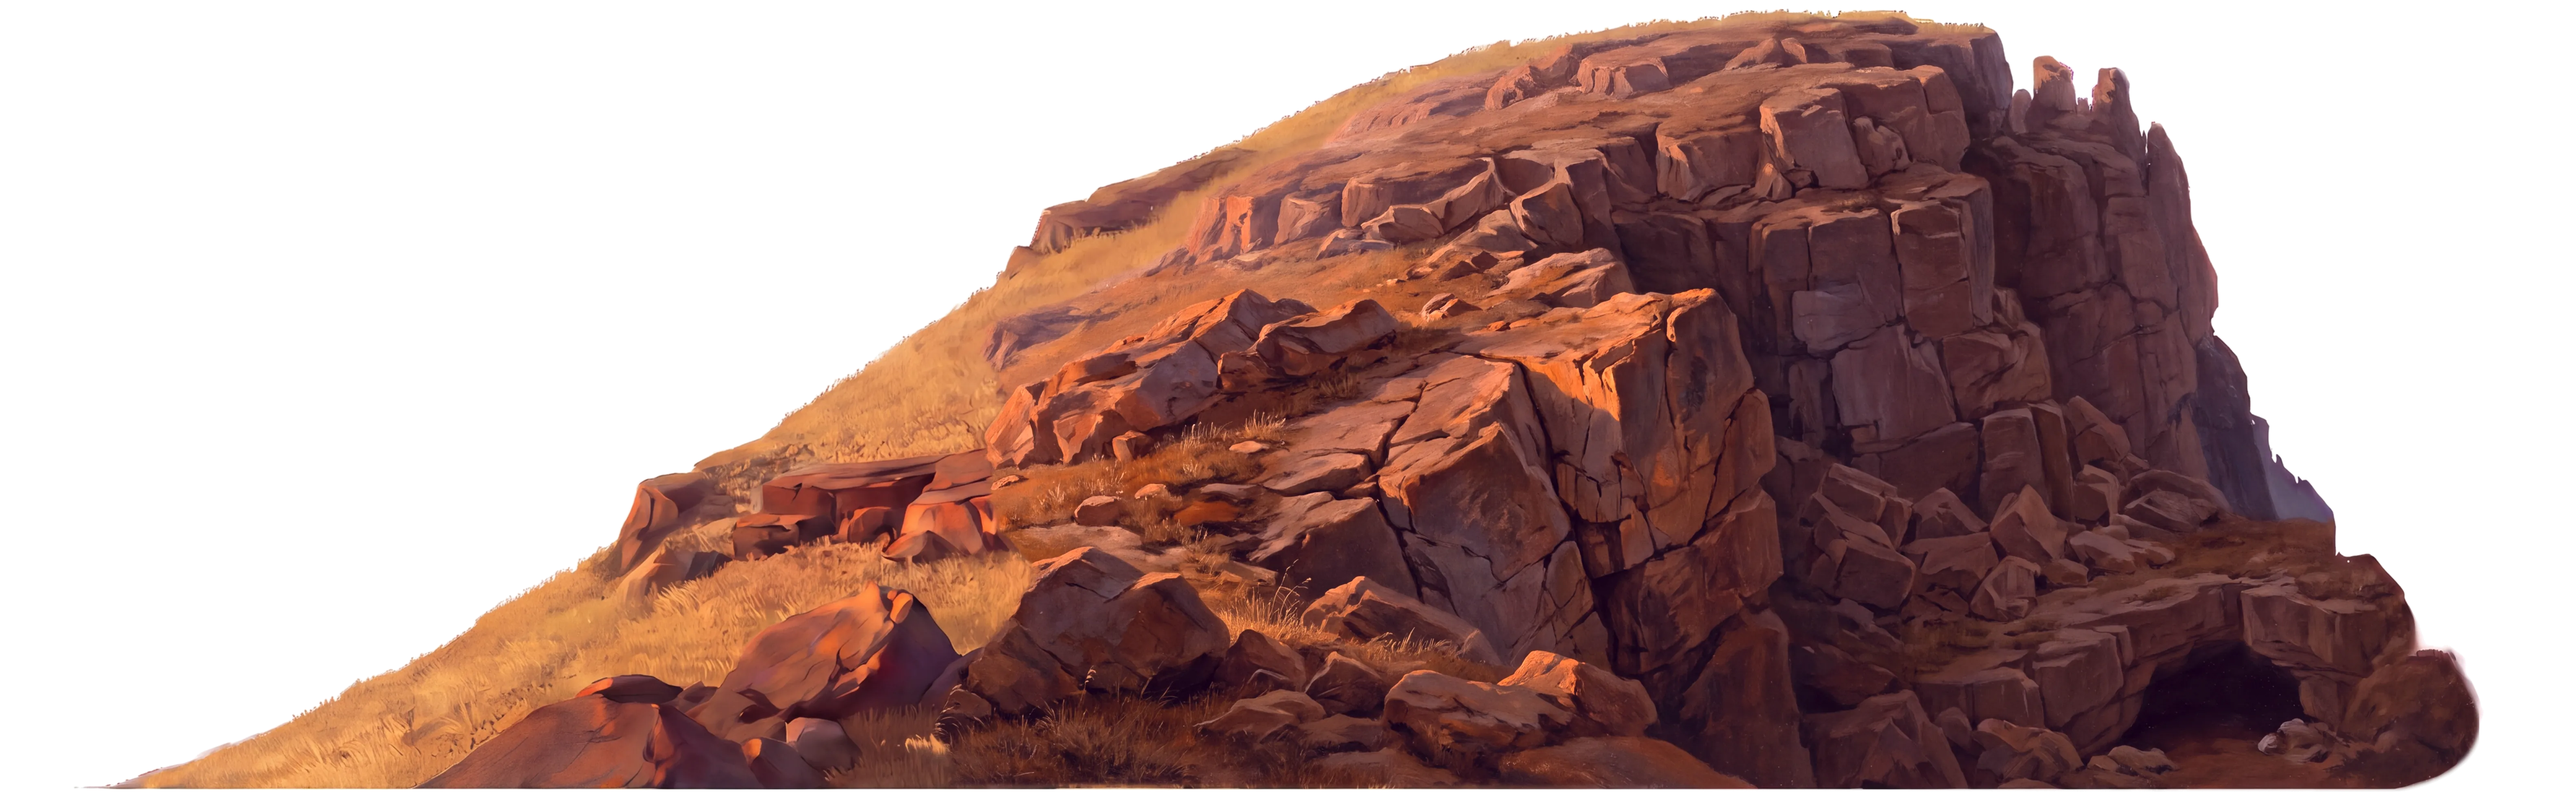
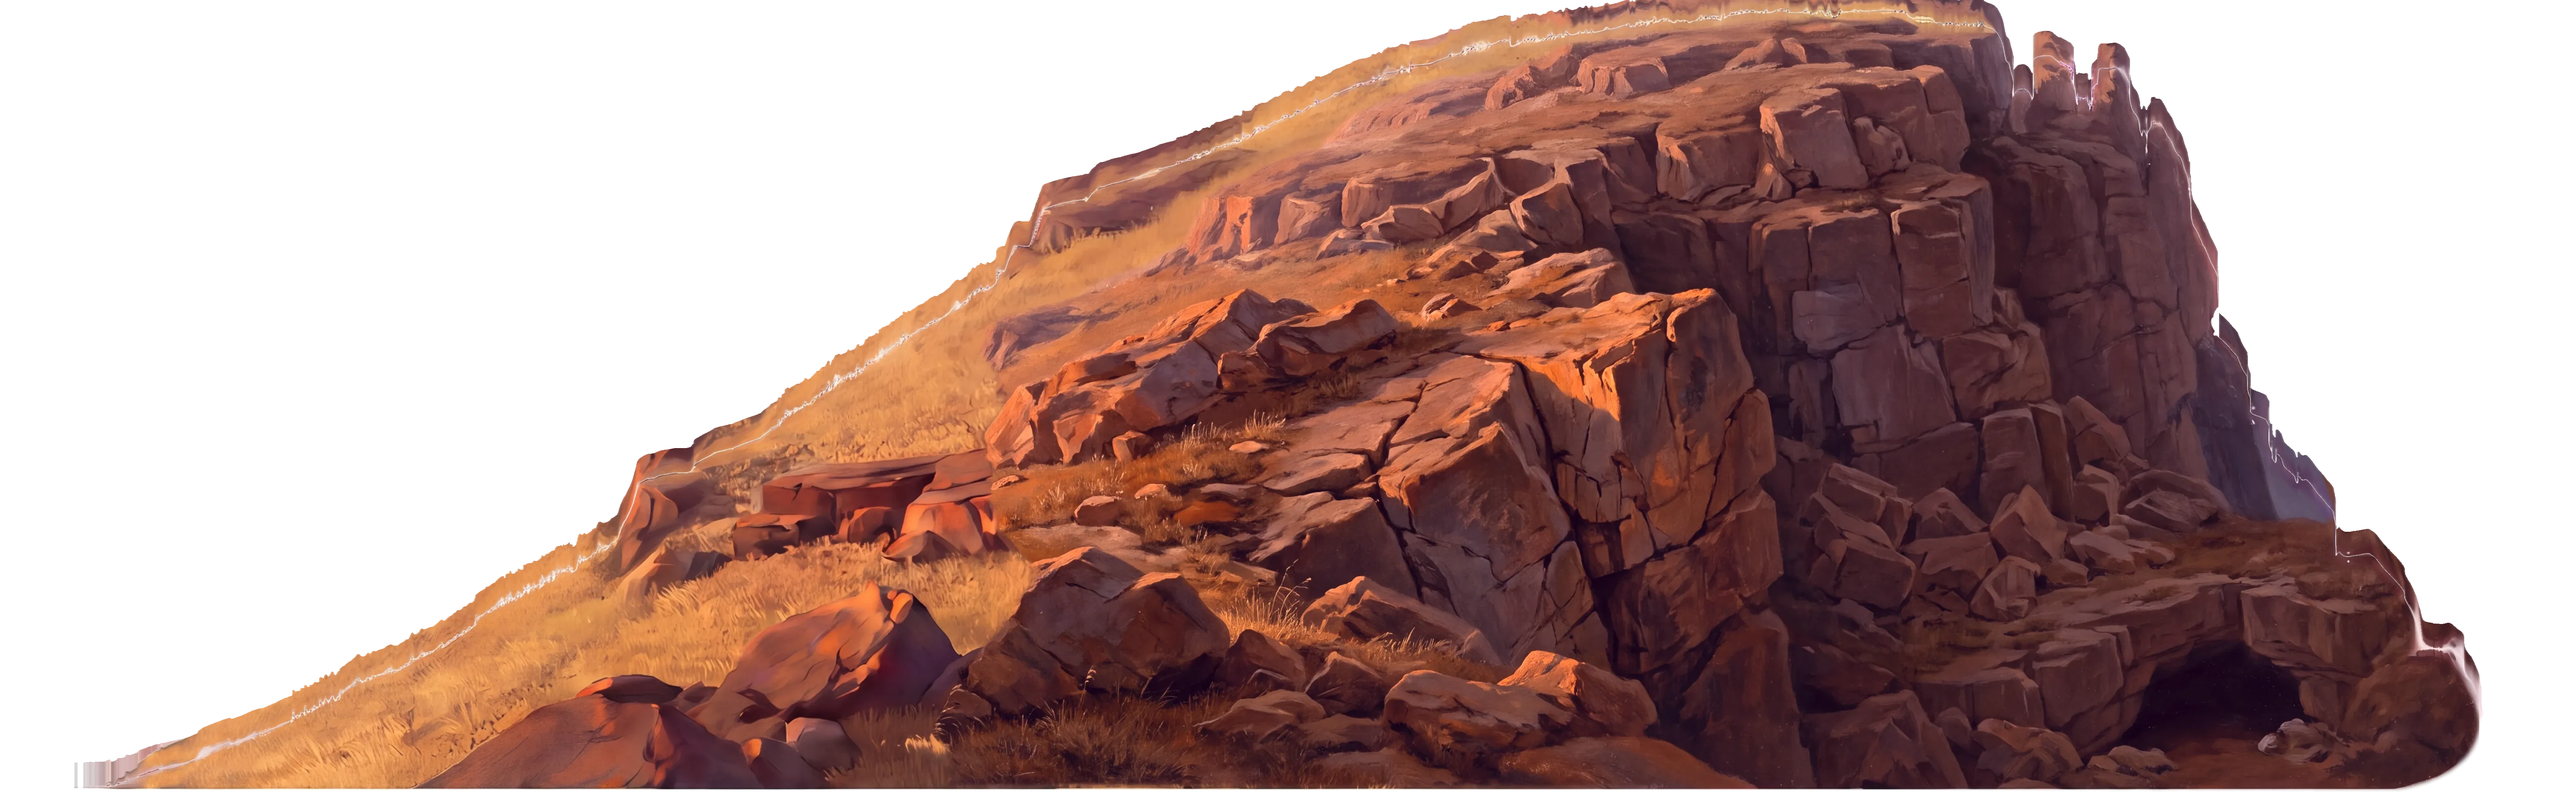
Build 635: Level 5 look=f smoother hill top edge
Claude-Session: https://claude.ai/code/session_017HrTSCxzgPwtaNLRtpHiFb

diff --git a/cross.js b/cross.js
@@ -105,12 +105,14 @@ const CR = (() => {
   // looks messy - maybe give me a couple options"): the rock picture (hill-crag-f) is solid a little above its own skyline,
   // so the game cuts it along a line of its choosing: ?edge=clean (default: the skyline lightly smoothed, the rocks kept),
   // ?edge=smooth (a rounder top), ?edge=line (just above his walking line: no rocks to pass behind), ?edge=raw (as painted)
-  const EDGE_OPT = (location.search.match(/[?&]edge=(\w+)/) || [, H618 ? 'raw' : 'smooth'])[1];
+  const EDGE_OPT = (location.search.match(/[?&]edge=(\w+)/) || [, H618 ? 'soft' : 'smooth'])[1];
   let EDGE_R = null, WALK = null;
   const EDGE = (() => { const T = PIN_TAB, sm = (A, R) => A.map((v, i) => { let a = 0, n = 0; for (let j = -R; j <= R; j++) { const q = A[i + j]; if (q != null) { a += q; n++; } } return a / n; });
     if (EDGE_OPT === 'raw') return T;
     const C = sm(sm(T, 2), 2), cr = (4380 + (CROSS_X - SK_X) / (SK_H / 1080) - PIN0) / 8;
-    const E = EDGE_OPT === 'smooth' ? sm(sm(T, 8), 8) : EDGE_OPT === 'line' ? PIN_S.map((v, i) => lerp(v + 3, C[i], smooth(cr - 4, cr + 8, i))) : C;
+    // (build 635, owner: "the edges on the mountain are a little too bumpy") ?edge=soft, now the default for 618's
+    // painting: the painted skyline smoothed twice over about 50 painting units; small knobs cut off, small notches filled
+    const E = EDGE_OPT === 'smooth' ? sm(sm(T, 8), 8) : EDGE_OPT === 'soft' ? sm(sm(T, 3), 3) : EDGE_OPT === 'line' ? PIN_S.map((v, i) => lerp(v + 3, C[i], smooth(cr - 4, cr + 8, i))) : C;
     // a little rockiness on the smooth top (owner, build 623: "while smooth can have a little more texture at the closest
     // frame - maybe slight rockiness"): small broken facets and chips laid along it, never below his walking line
     const hs = i => { const v = Math.sin(i * 127.1 + 311.7) * 43758.5453; return 2 * (v - Math.floor(v)) - 1; };
@@ -257,7 +259,7 @@ const CR = (() => {
     // the hill painted by the image model (round 2 of the owner's hill): rounded weathered rock, toned dark grey, its left
     // end faded into the drawn ramp; cropped to the rock at 1.5 px a world unit (at SK_H 1080): world x 2834 to 5654, height 1089 down to 2 below the ground
     // ?look=f: the hill painted as Friedrich's crag (build 606), laid on the same outline as the old painting
-    if (HP_ON) loadImg(LOOKF ? (H618 ? (/[?&]paint=618\b/.test(location.search) ? 'hill-crag.webp?v=618' : 'hill-crag-r.webp?v=628') : 'hill-crag-f.webp?v=623') : 'hill-cross.webp?v=601').then(im => { HPAINT = im; }).catch(() => {});
+    if (HP_ON) loadImg(LOOKF ? (H618 ? (/[?&]paint=618\b/.test(location.search) ? 'hill-crag.webp?v=618' : 'hill-crag-r.webp?v=635') : 'hill-crag-f.webp?v=623') : 'hill-cross.webp?v=601').then(im => { HPAINT = im; }).catch(() => {});
     // the burning hill's own painted rock (Level 3), made a grey tile as hill.js makes it, laid over the hill in 'overlay'
     loadImg('hill-rock.webp').then(rock => { const sx = 720, sy = 540, w = 780, h = 600, t = document.createElement('canvas'); t.width = w; t.height = h; const q = t.getContext('2d'); q.drawImage(rock, sx, sy, w, h, 0, 0, w, h);
       const d = q.getImageData(0, 0, w, h), D = d.data; let m = 0; for (let i = 0; i < D.length; i += 4) m += D[i] * .3 + D[i + 1] * .59 + D[i + 2] * .11; m /= D.length / 4;

diff --git a/index.html b/index.html
@@ -184,7 +184,7 @@ body.portrait:not(.playing) #rot{display:none}
   </div>
   <button id="snd" aria-label="Sound on or off">♪</button>
   <button id="autoWalk" aria-label="He walks on by himself"><svg viewBox="0 0 24 24"><path d="M5 6l6 6-6 6M12 6l6 6-6 6"/></svg></button>
-  <div id="build">build 634 · Nov 24 2026</div>
+  <div id="build">build 635 · Nov 24 2026</div>
 </div></div>
 <div id="rot">Turn your phone sideways for a bigger picture</div>
 <script>
@@ -2900,7 +2900,7 @@ document.getElementById('on2').onclick = () => SL.on ? go3() : HL.on ? goRoom('d
 <script src="rooms.js?v=571"></script>
 <script src="heaven.js?v=547"></script>
 <script src="keepsakes.js?v=505"></script>
-<script src="cross.js?v=634"></script>
+<script src="cross.js?v=635"></script>
 <script src="editor.js?v=609"></script>
 </body>
 </html>

diff --git a/story-lab.html b/story-lab.html
@@ -3,4 +3,4 @@
 <title>Pilgrim's Progress</title>
 <!-- The game moved to the main page in build 119. This page only sends old links (and Home Screen icons) on to it. -->
 <script>location.replace('./' + location.search + location.hash);</script>
-<p><a href="./">Pilgrim's Progress</a> <span id="build">build 634 · Nov 24 2026</span></p>
+<p><a href="./">Pilgrim's Progress</a> <span id="build">build 635 · Nov 24 2026</span></p>

diff --git a/CLAUDE.md b/CLAUDE.md
@@ -40,7 +40,7 @@ A gentle side-scrolling story walk for kids ages 7 to 10, following Bunyan's *Th
 ## Working with the owner
 
 - **Repo `Twhidbey/pilgrims-progress`, branch `main`. Pushing `main` publishes the game** (GitHub Pages, https://twhidbey.github.io/pilgrims-progress/, 1 to 2 minutes). Commit and push after every change, then tell the owner it is live; a phone may show an old copy, so suggest `?v=N`. **Always give two links when a build is live (owner, build 187: "can you output [the editor link] by default and make note in notes"):** the game, `https://twhidbey.github.io/pilgrims-progress/?v=N`, and the editor link, `https://twhidbey.github.io/pilgrims-progress/?edit&v=N` (skip arrows, see Testing); add `&level=2` or `&level=3` when the change is in that level.
-- **Build stamp** (`id="build"`, bottom right): `build N · date` in `index.html` and `story-lab.html`. Bump N on **every** push that changes the game, so one number means one push. Keep the form `id="build">... build N` (the page's self-update reads it). **Currently build 634.** The two script tags at the end of `index.html` carry `?v=N` (`slough.js?v=`, `hill.js?v=`): set them to the build that last changed each file, so phones fetch the new copy. Several chats push at once: `git fetch` and rebase on `origin/main` just before pushing, and take the next number after whatever is there.
+- **Build stamp** (`id="build"`, bottom right): `build N · date` in `index.html` and `story-lab.html`. Bump N on **every** push that changes the game, so one number means one push. Keep the form `id="build">... build N` (the page's self-update reads it). **Currently build 635.** The two script tags at the end of `index.html` carry `?v=N` (`slough.js?v=`, `hill.js?v=`): set them to the build that last changed each file, so phones fetch the new copy. Several chats push at once: `git fetch` and rebase on `origin/main` just before pushing, and take the next number after whatever is there.
 - **SPEND AS LITTLE AS POSSIBLE (owner, build 106: "can you minimize spending - it's been pretty expensive for me last few days").** Video about 56 cents a try; a picture about 15 cents (`gemini-3-pro-image`); voice about a cent a line. **Before any paid call: say the cost and wait for a yes; keep the running total in `HANDOFF.md`.** Ways to save, in order: (1) do it in code first (breathing, sway, cloth and hair movement, small moves by warping a still, mirroring, tinting, reusing a figure); (2) build first and last frames from frames we already have; (3) draft pictures on `gemini-2.5-flash-image` (about a third of the price), the pro model only for the final; (4) show the owner a still before any video; (5) get two clips from one video (play backwards or back and forth); (6) write video prompts that pass the safety filter first time (no "sunk", "drowning", "thrashing", "desperate", "frightened"; say "thick sticky mud", "heaves", "cross and grumbling"); (7) a shorter video if the API offers one cheaper (not yet checked).
 - **Keep `CLAUDE.md` and `HANDOFF.md` updated after every change.** The repo is public: no names, emails or other personal details in notes, code or commits.
 - **Players:** kids 7 to 10, mostly on an iPhone. Gentle: no lives, no game over, read-aloud words, short simple sentences.
@@ -987,5 +987,7 @@ Counted by episode from the book's section numbers (later long conversations shr
 **Build 633: A DRY-STONE WALL BY MOONLIGHT, FOR `?look=f` (owner: "wall is getting better but i think it should be dark with a moonlit edge - think rocks piled on top of each other").** `bakeWall` now draws the wall itself (Level 1's wall painting no longer used here): rough rounded rocks of every size (7 to 10 sides, uneven), piled course on course from the ground, the big ones low (about 38 units wide at the foot, 24 near the top), a line of cope rocks along the top; nearly black ([13,15,20]); each rock shows only by a hair-thin cool rim of moonlight along its upper edge ([150,168,196], .04 low to .18 high), the cope rocks' rims strongest (.42), so the wall's top line is its moonlit edge; at sunrise the same rocks warm. Wall still `WALL_H` 92 (the book gives no height). Playtest 5 reaches the end card. Nothing spent.
 
 **Build 634: THE NIGHT HILLS IN THE SKY'S BLUE, WARM BLACK NEAR, FOR `?look=f` (owner: "the hills look kinda green - what's that from color theorist perspective"; my answer: their teal-leaning colour (about hue 195) set against the new greyed-ultramarine sky (about 220) is pushed toward green by simultaneous contrast; the fix by aerial perspective, cool and in the sky's own hue far off, darker and a breath warmer near, kin to the hill's dark rust, so the night has two colour families, cool sky and dark warm earth; "let's do it").** In `farR()` at night: far [30,36,52] to middle [15,18,28] to nearest [13,11,11], held well below the horizon's glow. Before and after stills sent. Playtest 5 reaches the end card. Nothing spent.
+
+**Build 635: THE HILL'S TOP EDGE SMOOTHER, FOR `?look=f` (owner: "the edges on the mountain are a little too bumpy (i know i've gone back and forth on this)").** The default edge for 618's painting is now `?edge=soft` (`EDGE_OPT`): the painted skyline smoothed twice over about 50 painting units, so small knobs are cut off and small notches filled (`?edge=raw` gives build 634's). So the filled notches show rock and not the dark land fill, `assets/hill-crag-r.webp` (`?v=635`) now runs the rock on 60 px above its own skyline (each column's rock mirrored upward from just under its top, softened a little sideways; script `extop.py` in the session scratchpad); the game crops it. His walking line and the rocks drawn in front of him are unchanged. The cliff's pinnacles at sunrise are rounder. Before and after stills shown; playtest 5 reaches the end card. Nothing spent.
 
 A first finish line: **Level 5, the Cross** (the burden carried since the first screen falls off), so Levels 1 to 5 stand as a whole game. Could be about 14 by also joining the Delectable Mountains with Ignorance, and the Enchanted Ground into the last level. Rough size: about $3 a level for pictures, videos and voices, more where there are many new people.

diff --git a/HANDOFF.md b/HANDOFF.md
@@ -1128,6 +1128,7 @@ The owner asked what follows the Slough of Despond, what that level should hold,
 
 **Build 601 (Level 5 chat):** the painted hill made again by Google without the skull, same outline (about 25 cents, the owner's yes). Running total: add about 25 cents.
 
+- Build 635 (art direction chat): `?look=f` the hill's top edge smoothed (`?edge=soft`, default); `hill-crag-r.webp` extends its rock 60 px above the skyline so filled notches show rock. `?edge=raw` = 634. Nothing spent.
 - Build 634 (art direction chat): `?look=f` night hills no longer greenish: far ridges in the sky's greyed blue, nearest almost black with a breath of warm umber. Nothing spent.
 - Build 633 (art direction chat): `?look=f` wall now a dark dry-stone wall of piled rocks with a moonlit edge on each rock, strongest along the top. Nothing spent.
 - Build 632 (art direction chat): `?look=f` night a greyed blue between 630's teal and 631's blue; no clouds, an open starry sky. Nothing spent.
